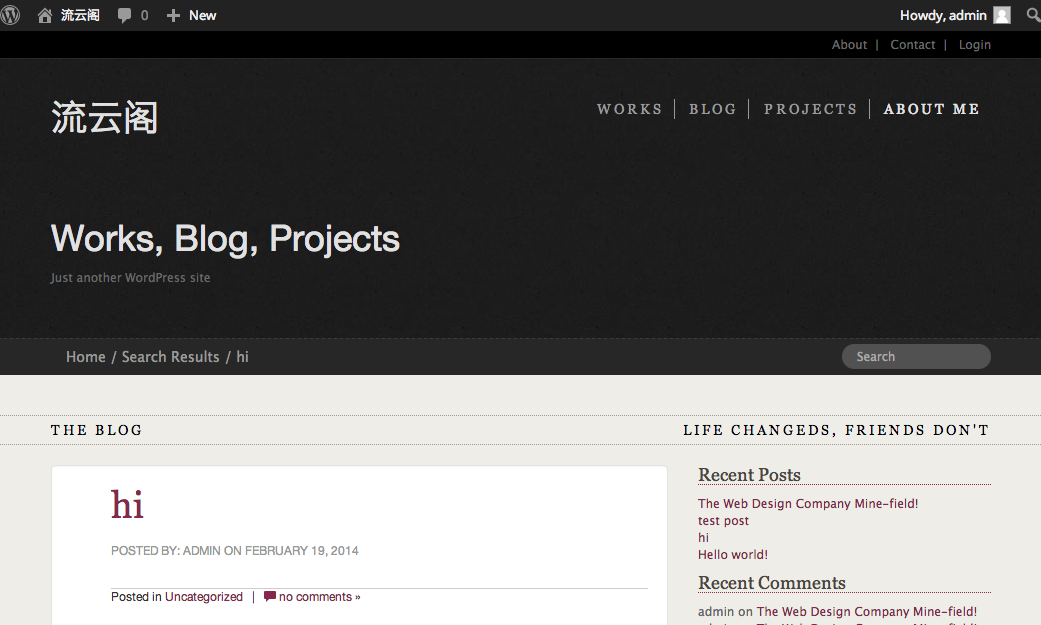
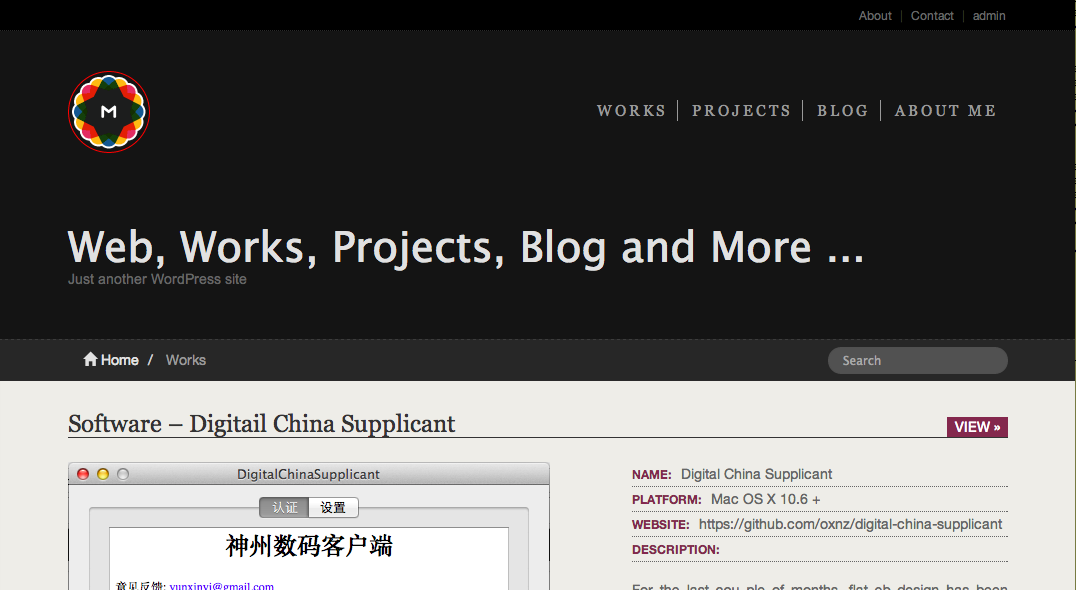
change site-name back

diff --git a/style.css b/style.css
@@ -125,7 +125,7 @@ ul li {
 	font-size: 80%;
 }
 
-.site-header .site-nav {
+.site-header .site-nav{
 	padding-top: 40px;
 }
 
@@ -152,6 +152,17 @@ ul li {
 }
 
 .site-header .site-nav .site-name {
+	font-family: 'sans-serif';
+	font-size: 400%;
+}
+
+.site-header .site-nav .site-name a {
+	color: #e1e1e1;
+}
+
+.site-header .site-nav .site-name,
+.site-header .site-nav .nav-menu {
+	vertical-align: top;
 }
 
 .site-header .site-banner {
@@ -161,9 +172,10 @@ ul li {
 
 .site-header .site-banner .site-title {
 	color: #e1e1e1;
-	font-family: 'Lucida Sans', 'Lucida Grande', 'Lucida Sans Unicode', sans-serif;
-	font-size: 300%;
+	font-family: 'open sans', 'Lucida Sans', 'Lucida Grande', 'Lucida Sans Unicode', sans-serif;
+	font-size: 320%;
 	font-weight: normal;
+	font-weight: 300;
 	margin: 0;
 	display: block;
 }
@@ -210,7 +222,7 @@ ul li {
 }
 
 .site-header .site-info .site-search input:focus {
-	padding: 7px 14px;
+	padding: 6px 14px;
 	width: 260px;
 }
 
@@ -347,25 +359,64 @@ ul li {
  * --> works
  */
 
-.works {
-	background: green;
+.work {
+	padding-bottom: 40px;
 }
 
-.works img {
+.work .header {
+	text-align: justify;
+	border-bottom: 1px solid;
+}
+
+.work .header .link {
+	color: white;
+	padding: 0 8px;
+	background: #84284d;
+	text-transform: uppercase;
+}
+
+.work .header .link:hover {
+	border: 1px dotted;
+	border-bottom: none;
+}
+
+.work .header .title,
+.work .header .link {
+	margin: 0;
+	display: inline-block;
+}
+
+.work .preview {
+	padding-top: 24px;
+	text-align: justify;
+}
+
+.work .preview .preview-img,
+.work .preview .info {
+	display: inline-block;
 	vertical-align: top;
 }
 
-.works .preview,
-.works .intro {
-	display: inline-block;
-	padding: 0 2%;
-}
-
-.works .intro {
+.work .preview .info {
+	color: #666;
 	width: 40%;
-	background: orange;
 }
 
+.work .preview .info ul li {
+	padding: 2px 0;
+	border-bottom: 1px dotted #666;
+}
+
+.work .preview .info ul li b {
+	color: #84284d;
+	text-transform: uppercase;
+	font-size: 12px;
+	padding-right: 10px;
+}
+
+.work .preview .info p {
+	padding-top: 18px;
+}
 
 /*
  * <-- site-content

diff --git a/home.php b/home.php
@@ -1,19 +1,23 @@
-<?php
-get_header(); ?>
+<?php get_header(); ?>
 <ul class="works">
 	<li class="work">
-		<img class="preview" src="<?php echo get_template_directory_uri(); ?>/img/app.png">
-		<div class="intro">
-			<div class="title">Title</div>
-			<p>For the last cou ple of months, flat eb design has been really a huge topic on the Web. Up to now, it is steadily dominating the Web . From UI, to the latest portfolio update , icons and even the top web design blogs are now using flat web design, not to mention Microsoft, Android and just recently Apple is going flat too!</p>
+		<div class="header">
+			<h3 class="title">Software - Digitail China Supplicant</h3>
+			<a class="link" href="#">View &raquo;</a>
+			<span class="justify"></span>
 		</div>
-	</li>
-	<li class="work">
-		<div class="intro">
-			<div class="title">Title</div>
-			<p>For the last cou ple of months, flat eb design has been really a huge topic on the Web. Up to now, it is steadily dominating the Web . From UI, to the latest portfolio update , icons and even the top web design blogs are now using flat web design, not to mention Microsoft, Android and just recently Apple is going flat too!</p>
-		</div>
-		<img class="preview" src="<?php echo get_template_directory_uri(); ?>/img/app.png">
+		<div class="preview">
+			<a class="img-link" href="#"><img src="http://localhost/~oxnz/wp-content/uploads/2014/02/app.png"></a>
+			<div class="info">
+				<ul>
+					<li><b>Name:</b>Digital China Supplicant</li>
+					<li><b>Platform:</b>Mac OS X 10.6 +</li>
+					<li><b>Website:</b>https://github.com/oxnz/digital-china-supplicant</li>
+					<li><b>Description:</b></li>
+				</ul>
+				<p class="description">For the last cou ple of months, flat eb design has been really a huge topic on the Web. Up to now, it is steadily dominating the Web . From UI, to the latest portfolio update , icons and even the top web design blogs are now using flat web design, not to mention Microsoft, Android and just recently Apple is going flat too!</p>
+			</div>
+		<span class="justify"></span>
 	</li>
 </ul>
 <?php get_footer(); ?>

diff --git a/header.php b/header.php
@@ -7,6 +7,7 @@
 	" | " . get_bloginfo('description') : wp_title('|', true); ?></title>
 	<link rel="profile" href="http://gmpg.org/xfn/11">
 	<link href="<?php bloginfo('stylesheet_url'); ?>" rel="stylesheet">
+	<link href='http://fonts.googleapis.com/css?family=Open+Sans:300,400' rel='stylesheet' type='text/css'>
 	<link href="<?php bloginfo('stylesheet_directory'); ?>/favicon.ico"
 		rel="shortcut icon">
 	<?php 
@@ -40,12 +41,12 @@
 	</div><!-- #glob-nav -->
 	<div class="site-nav container">
 		<div class="site-name"><a href="<?php echo site_url(); ?>">
-		<img class="img-circle" src="<?php echo get_stylesheet_directory_uri(); ?>/img/logo.png"></img>
+			<?php bloginfo('name'); ?>
 		<!--
-<?php bloginfo('name'); ?>
+		<img class="img-circle" src="<?php echo get_stylesheet_directory_uri(); ?>/img/logo.png"></img>
 		-->
 		</a></div>
-		<?php wp_nav_menu(array('container_class' => ''));?>
+		<?php wp_nav_menu(array('container_class' => 'nav-menu'));?>
 		<span class="justify"></span>
 	</div>
 	<div class="site-banner container">
@@ -57,7 +58,7 @@
 			<div class="position">
 				<ol class="breadcrumb">
 					<li class="active"><a href="<?php echo site_url(); ?>" title="Back to home page"><span class="glyphicon glyphicon-home"></span> Home</a></li>
-					<?php if (is_home()) : ?>
+					<?php if (is_home() || is_front_page()) : ?>
 					<?php elseif (is_404()) : ?>
 					<li>Not Found</li>
 					<?php elseif (is_single()) : ?>

diff --git a/functions.php b/functions.php
@@ -42,7 +42,7 @@ function register_site_menu() {
 }
 
 add_action('init', 'register_site_menu');
-//remove_filter('the_content', 'wpautop');
+remove_filter('the_content', 'wpautop');
 //remove_filter('the_excerpt', 'wpautop');
 //remove_filter('the_content', 'wptexturize');
 //remove_filter('the_excerpt', 'wptexturize');

diff --git a/page.php b/page.php
@@ -6,4 +6,5 @@ get_header();
 <?php endwhile; else : ?>
 	<div class="alert alert-danger">Sorry, this page does not exists.</div>
 <? endif; ?>
+
 <?php get_footer(); ?>

diff --git a/index.php b/index.php
@@ -1,6 +1,7 @@
 <?php
 get_header(); ?>
 
+<h1>index.php</h1>
 <div id="content" class="row" role="main">
 	<div class="col-sm-8">
 		<div class="blog">
